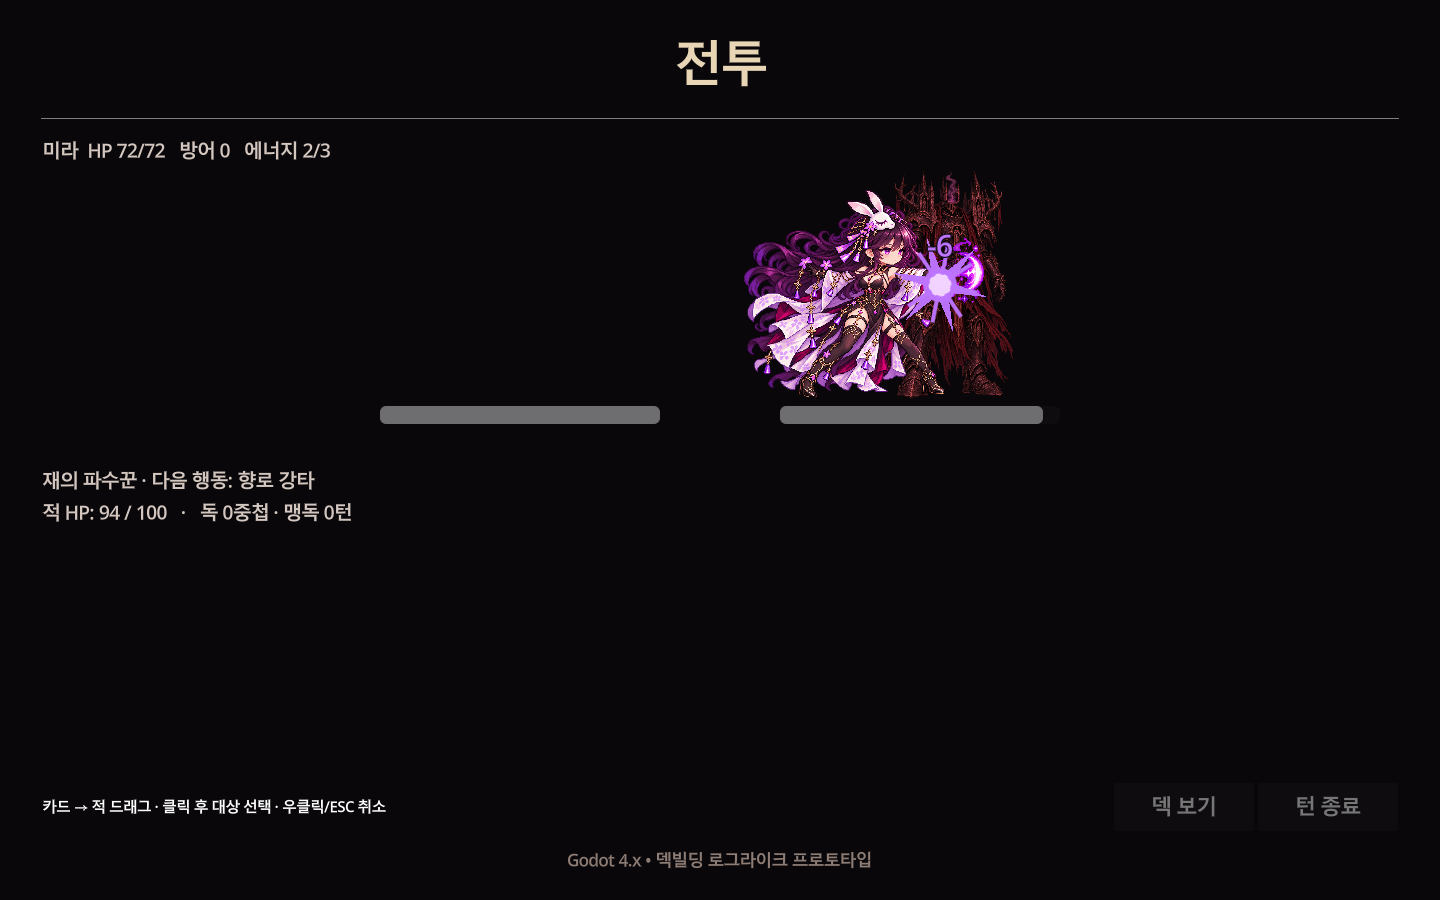
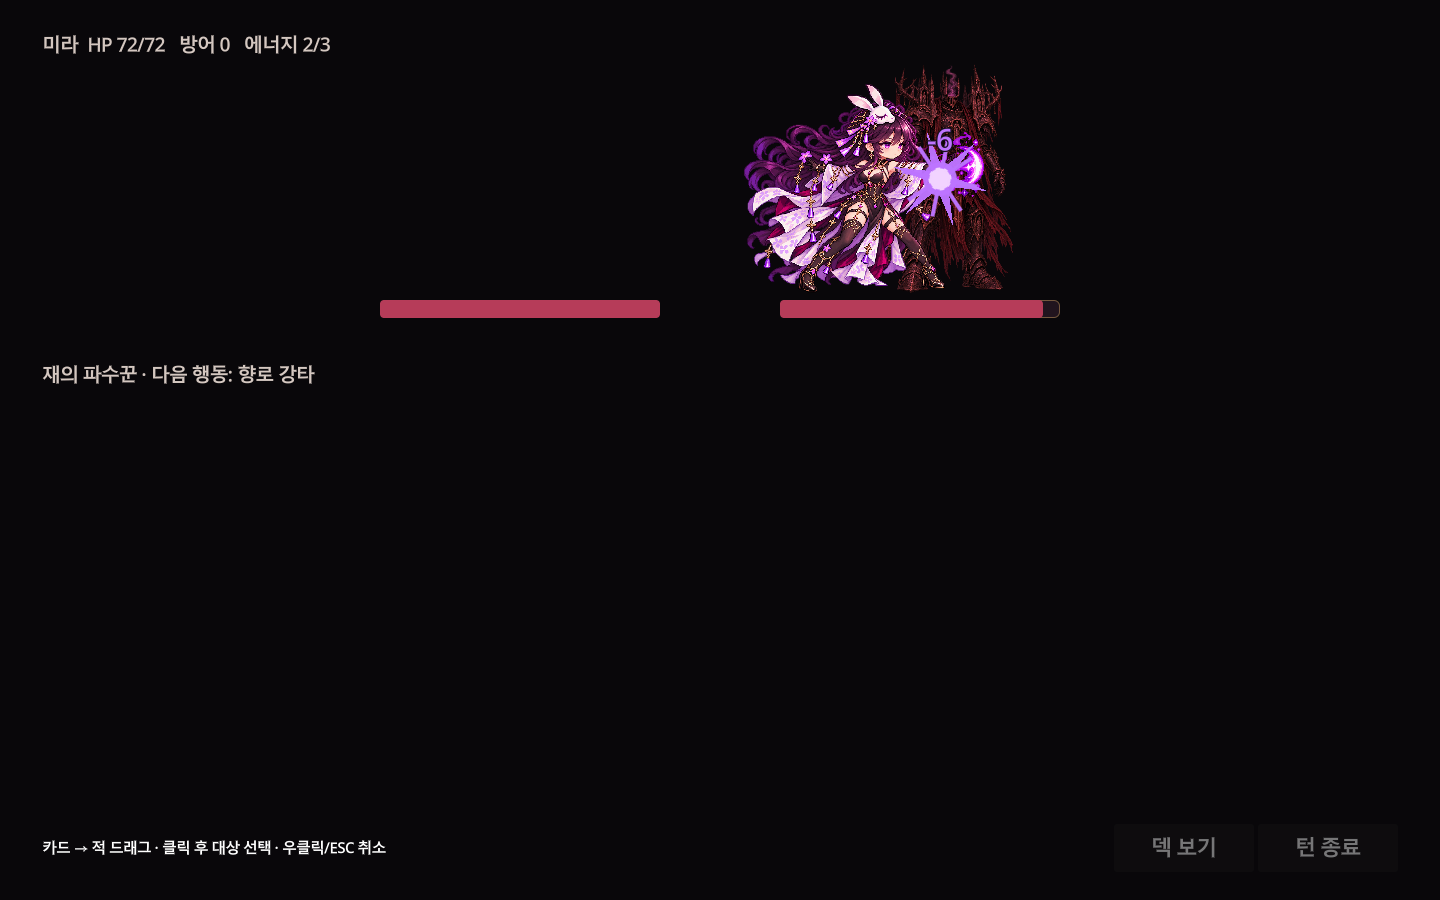
Replace Mira hand panels with portrait gothic cards and fan layout

diff --git a/docs/CARD_HAND_VISUAL.md b/docs/CARD_HAND_VISUAL.md
@@ -1,0 +1,24 @@
+# 미라 세로 카드 손패 — 2026-10-02
+
+사용자가 기존 손패가 카드 형태가 아닌 정보 패널처럼 보인다고 지적했다. 기존 192×220 패널/VBox 구조를 220×330 세로 카드로 교체했다.
+
+## 실제 적용
+- scripts/battle_card.gd: 독립 금속 카드 프레임, 큰 일러스트, 좌상단 정수 에너지, 이름, 별도 타입/등급 띠, 양피지 효과 설명, 캐릭터 제한·강화 여부. 효과는 GameData.effect_text의 원본 수치를 그대로 사용한다. 카드 아트와 밸런스 데이터는 바꾸지 않았다.
+- scripts/battle_hand.gd: 부채꼴 회전과 겹침, hover 시 앞으로 상승/확대/정렬. 겹친 카드의 회전·크기를 역변환하여 최상단 실제 카드 영역을 판정한다. 기존 드래그/클릭 대상 선택/취소/자기 카드/입력 잠금 동작 유지.
+- main.gd: 미라 전투에서 상단 큰 제목·프로토타입 꼬리말·중복 적 요약을 숨기고 손패 공간 확보. 다른 화면 진입 시 원래 레이아웃 복구. 다른 캐릭터 전투 UI는 이번 범위가 아니다.
+- 새 UI 자산 assets/ui/cards/gothic_frame_v1.png. 배경과 일러스트 창에 실제 알파가 있는 1024×1536 PNG. 내장 image_gen으로 독립 제작해 전체 이미지를 사용한다. 참고 게임의 카드 프레임을 잘라 쓰지 않았다. 작은 아이콘 반복 생성이 아니라 주요 카드 UI 프레임 작업이다.
+- 상태: approved. 근거는 독립 프레임/투명도 확인, 실제 전투에서 비용·이름·효과 위치와 두 해상도 시각 검수. 원본 게임 콘텐츠 레코드를 일괄 승인한 것은 아니다.
+
+## 검증
+Godot 4.7.2 실제 렌더링:
+- CARD_SHAPE_QA resolutions=2 failures=0: 1440×900/1280×720, 세로 비율, 효과 영역 넘침, 정수 비용, 겹침/회전, hover 전면/정렬, 화면 복구.
+- MIRA_HAND_QA failures=0: 드래그 확정, 대상 밖 드롭, 클릭 후 대상 선택, 우클릭/ESC, 방어, 에너지 부족, 툴팁.
+- MIRA_HIT_QA failures=0: 명중 시점/중복 입력/피격/복귀 및 기존 타격 회귀.
+- 캡처 docs/card-hand-1440.png, card-hand-1280.png 및 갱신한 mira-hand/mira-hit 화면.
+
+미완성 범위: 실제 전투 배경·효과음·다른 캐릭터 전용 손패·다중 적 조준은 그대로다. 기본 공격/방어는 기존 전용 심볼이며, 모든 카드 일러스트를 새로 제작한 작업은 아니다.
+
+## 생성 기록
+도구: 내장 image_gen, transparent_background=true. 원본 exec-6fe3d35c-361e-4ef6-b5b9-c10a34799ac0.png를 복사했다.
+
+프롬프트: One standalone original dark gothic fantasy collectible playing card FRAME asset, portrait 2:3 ratio. This is a physical illustrated deckbuilding card with clipped corners, thick blackened silver and antique gold sculpted perimeter, subtle violet enamel, symmetrical intricate gothic metal filigree. Large EMPTY transparent illustration window in upper middle between 18% and 60% height. Solid dark ivory parchment effect text panel lower middle 66%-89%, blank no writing. A narrow blank dark metal name ribbon at top 8%-17%. Small round antique gold energy medallion at top left, EMPTY center no number. Bottom small blank violet ribbon 91%-96%. Keep ornaments restrained for legibility at 210x315 pixels. True transparent background outside card and in illustration window; parchment text panel and frame opaque. No letters, no words, no numbers, no illustration, no mockup, no hands, no scene, no multiple cards or sheet. Frame fills nearly entire canvas with a tiny margin.

diff --git a/HANDOFF.md b/HANDOFF.md
@@ -1,5 +1,11 @@
 # 잿빛 원정대 — 집 PC 작업 인계
 
+## 2026-10-02 미라 손패를 실제 세로 카드 형태로 변경
+- 사용자가 정보 패널 같은 손패를 반복 지적하여 220×330 세로 카드/독립 고딕 프레임/큰 아트/비용 문양/효과 양피지로 교체했다. 하단 부채꼴 겹침, hover 상승·확대·전면 표시. 기존 패널 형태로 되돌리지 않는다.
+- scripts/battle_card.gd 추가, battle_hand.gd/main.gd 수정. 효과 원본·카드 데이터·독/맹독·명중 판정은 유지. 미라 전투에서 제목/꼬리말/중복 요약을 줄여 공간 확보하고 다른 화면은 복구한다.
+- 실제 렌더링 CARD_SHAPE_QA(2해상도), MIRA_HAND_QA, MIRA_HIT_QA 모두 실패0. 효과 줄바꿈 넘침과 비용 소수점 표기를 수정했다. docs/CARD_HAND_VISUAL.md에 자산/프롬프트/검증, docs/card-hand-*.png에 최신 화면.
+- 전투 배경/효과음/다른 캐릭터 전용 UI/다중 적 조준은 미완성. 작업 전부터 있던 data/characters.json, data/events.json 및 무관한 import 변경은 보존하고 커밋에 포함하지 않았다.
+
 ## 2026-10-02 학원 PC 최신 작업 수신
 - 깨끗한 작업 폴더에서 sync.ps1 start로 `4a9f312` 이후 7개 커밋을 `6e45913`까지 fast-forward pull했다. 로컬 충돌 없이 현재 사용 프로젝트에 반영했다.
 - 최신 AGENTS/PROJECT_DIRECTION 및 CONTENT_TOOL_INTEGRATION, POISON_VENOM, MIRA_HIT, MIRA_BATTLE_INPUT 인수인계를 읽었다. 미라 우선 개발, 독/맹독 별개 유지, 기존 독립 모션/시작 화면/지도 규칙 보존을 인계받았다.
